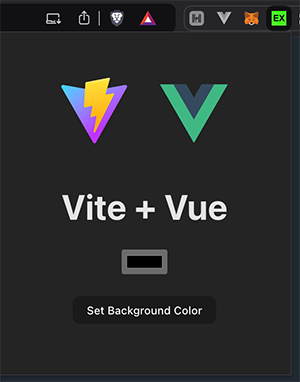
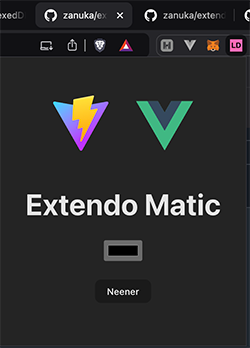
enhances proto

diff --git a/src/App.vue b/src/App.vue
@@ -1,5 +1,5 @@
 <script setup lang="ts">
-import HelloWorld from "./components/HelloWorld.vue";
+import BasePanel from "./components/BasePanel.vue";
 </script>
 
 <template>
@@ -11,7 +11,7 @@ import HelloWorld from "./components/HelloWorld.vue";
       <img src="./assets/vue.svg" class="logo vue" alt="Vue logo" />
     </a>
   </div>
-  <HelloWorld msg="Extendo Matic" />
+  <BasePanel msg="Extendo Matic" />
 </template>
 
 <style scoped>

diff --git a/src/components/BasePanel.vue b/src/components/BasePanel.vue
@@ -52,7 +52,9 @@ async function changeBackground() {
   </div>
 
   <div class="card">
-    <button type="button" @click="changeBackground">Neener</button>
+    <button type="button" @click="changeBackground">
+      Change Background Color
+    </button>
   </div>
 </template>
 

diff --git a/README.md b/README.md
@@ -6,7 +6,9 @@ A simple Chrome Extension starter project that uses Vue 3 + TypeScript + Vite + 
 
 ### Installing Bun
 
-Bun is a fast all-in-one JavaScript runtime like Node.js, but with a focus on performance and developer experience. To install Bun, you can use the following command:
+Bun is a fast all-in-one JavaScript runtime like Node.js, but with a focus on performance and developer experience. You can also just use npm or pnpm, whatever works for you. 
+
+To install Bun, you can use the following command:
 
 ```bash
 curl -fsSL https://bun.sh/install | bash
@@ -67,17 +69,22 @@ This will generate the following icons in the `public/assets` directory:
 - vue ^3.5.13
 
 ## Dev Dependencies
-- @vitejs/plugin-vue ^5.2.1
-- typescript ~5.6.2
-- vite ^6.0.1
-- vue-tsc ^2.1.10
 
-## Great Success
+- **@types/chrome**: Provides TypeScript type definitions for the Chrome extension APIs, enabling better type checking and IntelliSense in your development environment.
+- **@vitejs/plugin-vue**: A Vite plugin that provides support for Vue 3 single-file components, allowing you to use Vue's template syntax and features.
+- **typescript**: A language for application-scale JavaScript, providing static type definitions to improve code quality and maintainability.
+- **vite**: A build tool that provides a fast development server and optimized build process for modern web projects.
+- **vue-tsc**: A TypeScript compiler for Vue single-file components, ensuring type safety and compatibility with TypeScript in your Vue project.
+
+## UI Testing
 You should see this after pinning the new extension:
 
 ![Preview A](./src/assets/preview-a.png)
 
-## Most Excellent
-You can now set a custom background color:
+## Basic Functionality
+Through some basic DOM manipulation, you can now set a custom background color using a stock color picker input. 
 
 ![Preview B](./src/assets/preview-b.png)
+
+
+starter created by [zanuka](https://github.com/zanuka) :: December 2024
